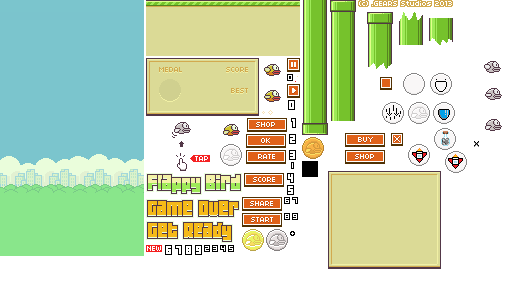
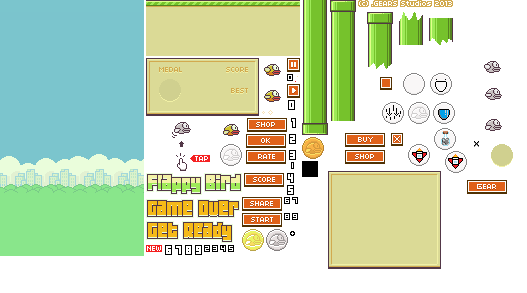
added gear page ui alone

Changed region(s): [[0.8805, 0.6143, 0.9715, 0.6758], [0.9108, 0.4915, 0.9715, 0.5836]]

diff --git a/src/loadout.js b/src/loadout.js
@@ -1,0 +1,131 @@
+import { height, scale, width } from "./character.js";
+import { flappyBirdSpriteSheet } from "./main.js";
+import { drawPriceFont, items } from "./shop.js";
+import { maxSlot, slot } from "./slot.js";
+
+const canvas = document.getElementById("main_canvas");
+const ctx = canvas.getContext("2d");
+
+export let isShowLoadout = false;
+
+export function toggleLoadoutPage() {
+    isShowLoadout = !isShowLoadout;
+};
+
+export function showLoadoutPage() {
+    if (isShowLoadout) {
+        drawLoadoutPage();
+    }
+}
+
+export function drawLoadoutButton() {
+    ctx.drawImage(
+        flappyBirdSpriteSheet,
+        467, 180, 40, 14,
+        (width / scale / 2) - 19, 190, 40, 14
+    )
+}
+
+export function drawLoadoutPage() {
+    const centerX = (width / scale / 2) - (113 / 2);
+    const centerY = (height / scale / 2) - (98 / 2);
+
+    //bg
+    ctx.drawImage(
+        flappyBirdSpriteSheet,
+        328, 171, 113, 98,
+        centerX, centerY, 113, 98
+    )
+    //close
+    ctx.drawImage(
+        flappyBirdSpriteSheet,
+        391, 133, 12, 13,
+        centerX + (113) - 12, centerY, 12, 13
+    );
+
+    ctx.imageSmoothingEnabled = false;
+
+    ctx.font = "8px 'Pixelify Sans'";
+    ctx.fillStyle = "black";
+    ctx.fillText("Current Gear:", centerX + 8, centerY + 12);
+
+    let currentX = (width / scale / 2) - (113 / 2) + 15;
+    let currentSlotsDrawn = 0;
+    //draw if slot is occupied else empty slot
+    for (let i = 0; i < slot.length; i++) {
+        ctx.drawImage(
+            flappyBirdSpriteSheet,
+            491, 144, 22, 23,
+            currentX, centerY + 17, 22, 22
+        );
+        currentX += 30
+        currentSlotsDrawn++;
+    }
+    if (currentSlotsDrawn < maxSlot) {
+        const leftAloneSlot = -1 * (currentSlotsDrawn - maxSlot);
+        for (let i = 0; i < leftAloneSlot; i++) {
+            ctx.drawImage(
+                flappyBirdSpriteSheet,
+                491, 144, 22, 23,
+                currentX, centerY + 17, 22, 22
+            );
+            currentX += 30;
+            currentSlotsDrawn++
+        }
+    }
+
+    ctx.font = "8px 'Pixelify Sans'";
+    ctx.fillStyle = "black";
+    ctx.fillText("Skills you Bought:", centerX + 8, centerY + 50);
+
+    const itemPerRow = 3
+    let row = 0;
+    let col = 0
+
+    for (let item in items) {
+        const skillSprite = items[item].sprite;
+
+        ctx.drawImage(
+            flappyBirdSpriteSheet,
+            skillSprite.x, skillSprite.y, skillSprite.w, skillSprite.h,
+            centerX + 8 + (row * 35), centerY + 55 + (col * 20), skillSprite.w * 0.7, skillSprite.h * 0.7
+        );
+        ctx.drawImage(
+            flappyBirdSpriteSheet,
+            474, 141, 5, 6,
+            centerX + 8 + (row * 35) + 17, centerY + 55 + (col * 20) + 7, 3, 4
+        );
+        let quantity;
+        if(localStorage.getItem(item)){
+            quantity = localStorage.getItem(item);
+        }else{
+            quantity ="0";
+        }
+        drawPriceFont(quantity, centerX + 8 + (row * 35) + 22, centerY + 55 + (col * 20) + 7, 0.5)
+        col++;
+        if (col === itemPerRow - 1) {
+            col = 0;
+            row++;
+        }
+    }
+
+}
+
+export function isClickOnLoadoutButton(mouseX, mouseY) {
+    return (
+        mouseX >= (width / scale / 2) - 19 &&
+        mouseX <= (width / scale / 2) - 19 + 40 &&
+        mouseY >= 190 &&
+        mouseY <= 190 + 14
+    )
+}
+
+export function isClickOnLoadoutCloseButton(mouseX, mouseY) {
+    console.log("in")
+    return (
+        mouseX >= (width / scale / 2) - (113 / 2) + 113 - 12 &&
+        mouseX <= (width / scale / 2) - (113 / 2) + 113 &&
+        mouseY >= (height / scale / 2) - (98 / 2) &&
+        mouseY <= (height / scale / 2) - (98 / 2) + 13
+    )
+}

diff --git a/src/main.js b/src/main.js
@@ -1,4 +1,5 @@
 import { gameLoop, player, resetCollidedRocket, resetPlayer, scale, stopGameAnimation, width } from "./character.js";
+import { drawLoadoutButton, isClickOnLoadoutButton, isClickOnLoadoutCloseButton, isShowLoadout, showLoadoutPage, toggleLoadoutPage } from "./loadout.js";
 import { isClickOnPauseButton } from "./pause.js";
 import { drawRetryPage, isClickedOnOKButton } from "./retryPage.js";
 import { resetRocketSpawn } from "./rocket.js";
@@ -166,11 +167,16 @@ export function startGameLoop(currentTime) {
 
     if (isShowShopPage) {
         showShopPage();
-    } else {
+    }
+    else if (isShowLoadout) {
+        showLoadoutPage();
+    }
+    else {
         drawTitle();
 
         drawStartButton();
         drawShowButton();
+        drawLoadoutButton();
 
         animateFlappyOnStartPage(delta);
     }
@@ -258,6 +264,11 @@ canvas.addEventListener('click', (e) => {
         toggleShowPageVisibilty();
         return;
     }
+    if (isClickOnLoadoutButton(mousePos.x, mousePos.y) && !isShowLoadout) {
+        console.log("loadout btn");
+        toggleLoadoutPage();
+        return;
+    }
     if (isClickOnStartButton(mousePos.x, mousePos.y) && !gameRunning && !isShowShopPage) {
         gameRunning = true;
         toggleScene(gameRunning);
@@ -267,9 +278,14 @@ canvas.addEventListener('click', (e) => {
         toggleShowPageVisibilty();
         return;
     }
+    if (isClickOnLoadoutCloseButton(mousePos.x, mousePos.y) && isShowLoadout) {
+        toggleLoadoutPage();
+        return;
+    }
     if (isClickOnBuyButton(mousePos.x, mousePos.y) && isShowShopPage) {
         return;
     }
+
     if (isClickedOnOKButton(mousePos.x, mousePos.y) && !gameRunning) {
         gameover = false;
         toggleScene(gameRunning);

diff --git a/src/shop.js b/src/shop.js
@@ -27,7 +27,7 @@ const currencySprite = {
     '9': { x: 292, y: 213, w: 6, h: 7 },
 }
 
-const items = {
+export const items = {
     Gravity: {
         sprite: { x: 382, y: 102, w: 22, h: 22 },
         title: "low Gravity",

diff --git a/src/slot.js b/src/slot.js
@@ -1,6 +1,6 @@
-const slot = [];
-const currentSlotPointer = 0;
-const maxSlot = 3;
+export const slot = [];
+export const currentSlotPointer = 0;
+export const maxSlot = 3;
 export function addToSlot(){
 
 }
